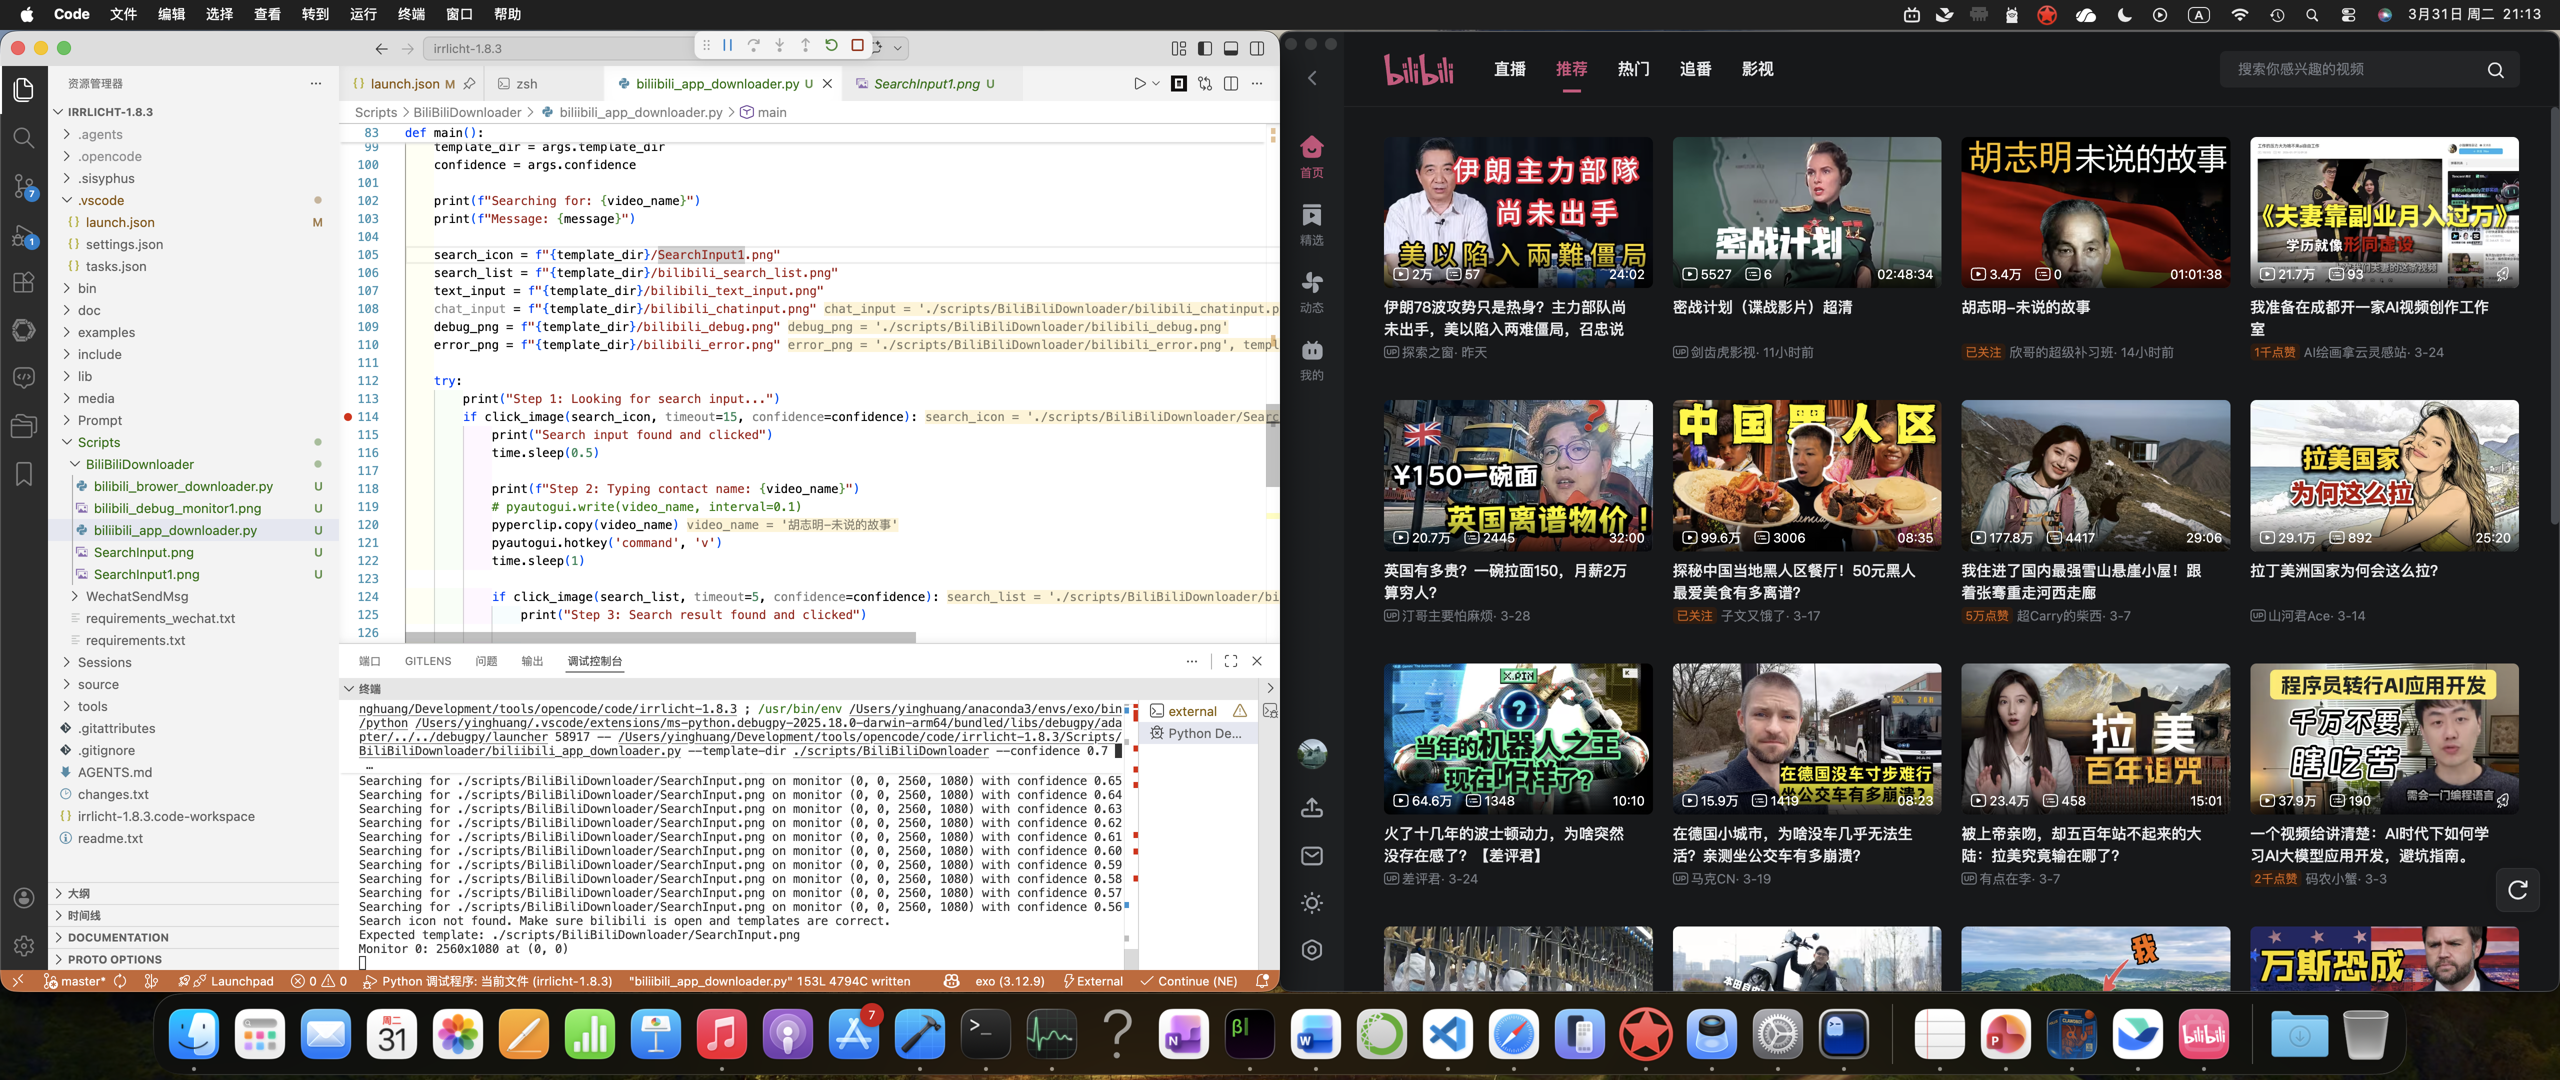
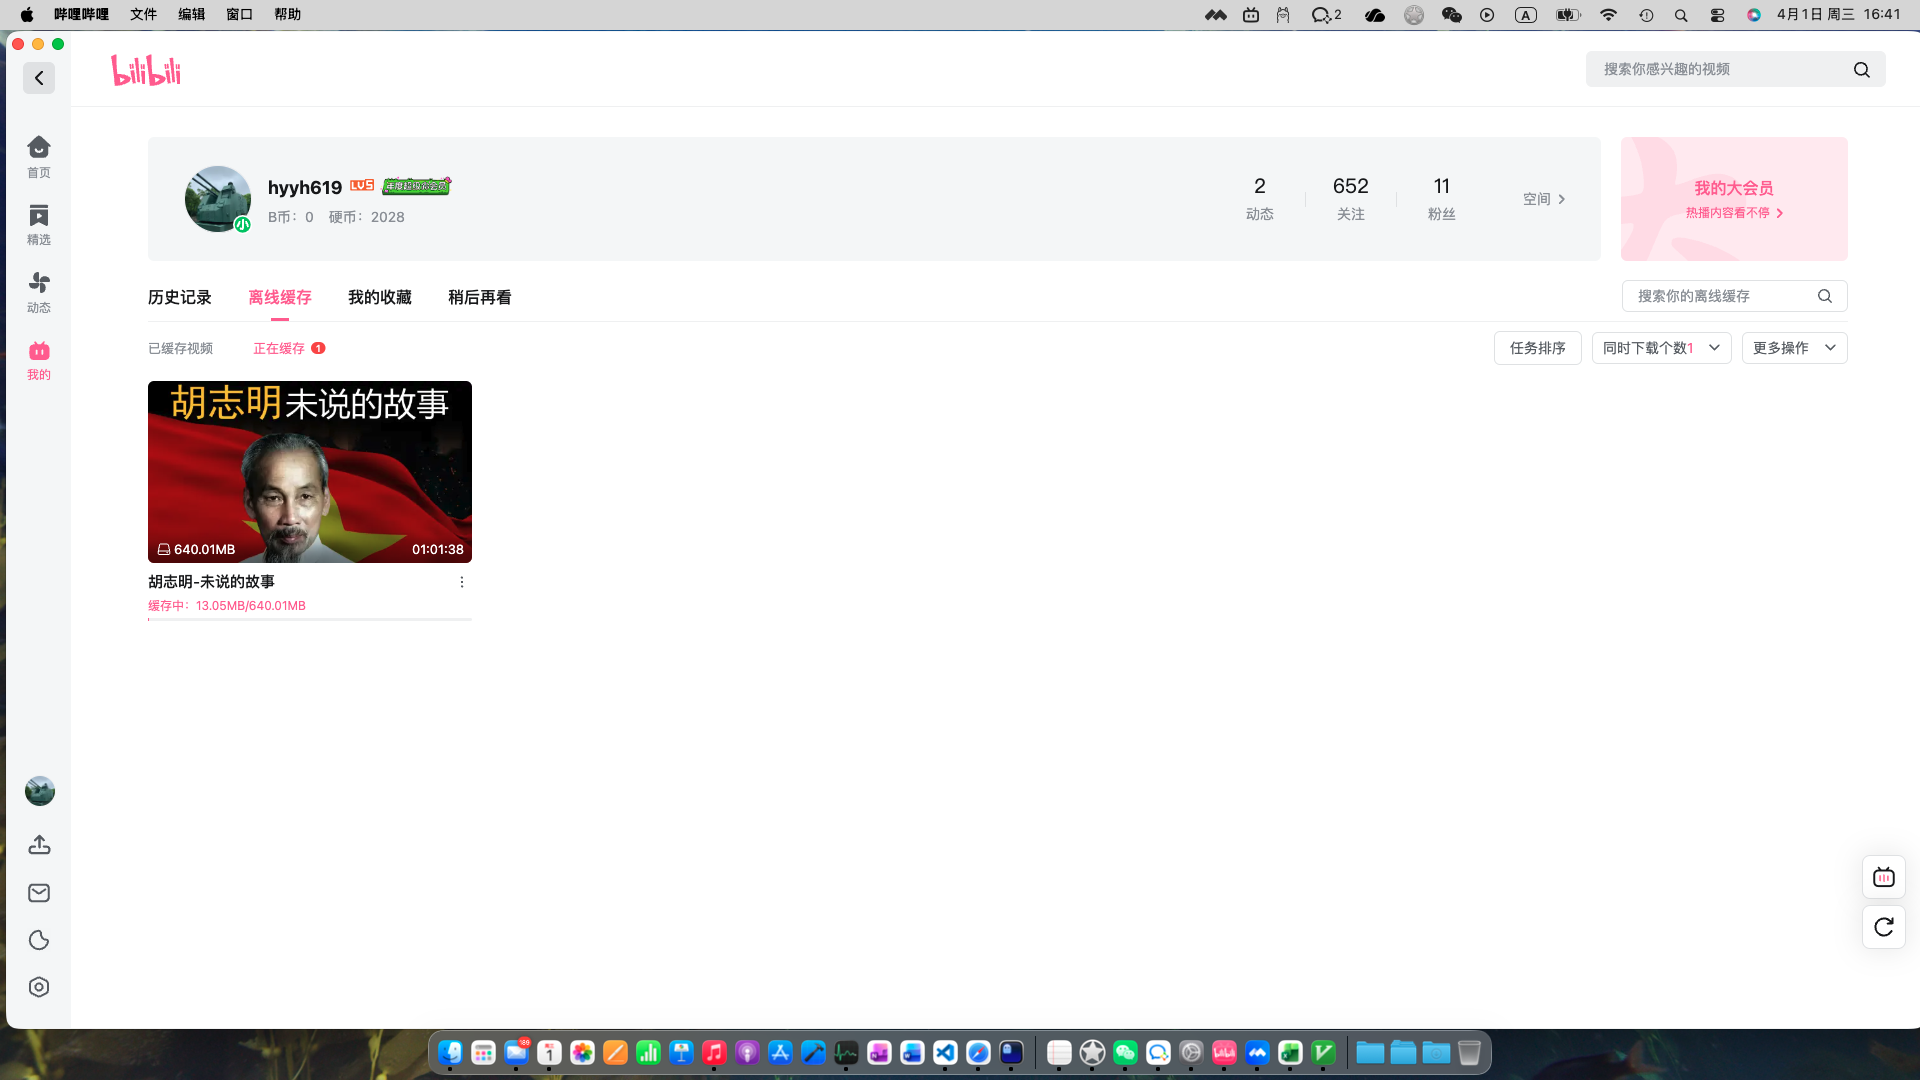
cache and download button only need to be pressed once. by: ying.huang.

diff --git a/Scripts/BiliBiliDownloader/biliibili_app_downloader.py b/Scripts/BiliBiliDownloader/biliibili_app_downloader.py
@@ -91,7 +91,7 @@ def wait_for_image_by_list(template_list, timeout=10, confidence=0.8):
         for m in monitors:
             for template_path in template_list:
                 try:
-                    print(f"Searching for {template_path} on monitor ({m.x}, {m.y}, {m.width}, {m.height}) with confidence {actConf:.2f}")
+                    # print(f"Searching for {template_path} on monitor ({m.x}, {m.y}, {m.width}, {m.height}) with confidence {actConf:.2f}")
                     posLeft = pyautogui.locateOnScreen(
                         template_path, confidence=actConf, region=(m.x, m.y, m.width, m.height), grayscale=True)
                     pos = pyautogui.locateCenterOnScreen(
@@ -264,7 +264,7 @@ def CheckAndProcessCacheVideo(cacheVideos, confidence, state):
         pyautogui.press('space')
         time.sleep(0.1)
 
-        if click_image_by_list(cacheVideos, timeout=15, confidence=confidence, double_click=True):
+        if click_image_by_list(cacheVideos, timeout=15, confidence=confidence, double_click=False):
             time.sleep(0.5)
 
             print("Current state: state_cache_video")
@@ -275,11 +275,11 @@ def CheckAndProcessCacheVideo(cacheVideos, confidence, state):
 
 
 def CheckAndProcessDownloadVideo(downloadVideos, confidence, state):
-    pos, posLeft = wait_for_image_by_list(downloadVideos, timeout=2, confidence=confidence)
+    pos, posLeft = wait_for_image_by_list(downloadVideos, timeout=5, confidence=confidence)
     if pos:
         print("Step 5: Downloading video...")
 
-        if click_image_by_list(downloadVideos, timeout=15, confidence=confidence, double_click=True):
+        if click_image_by_list(downloadVideos, timeout=15, confidence=confidence, double_click=False):
             time.sleep(0.5)
 
             print("Current state: state_download_video")
